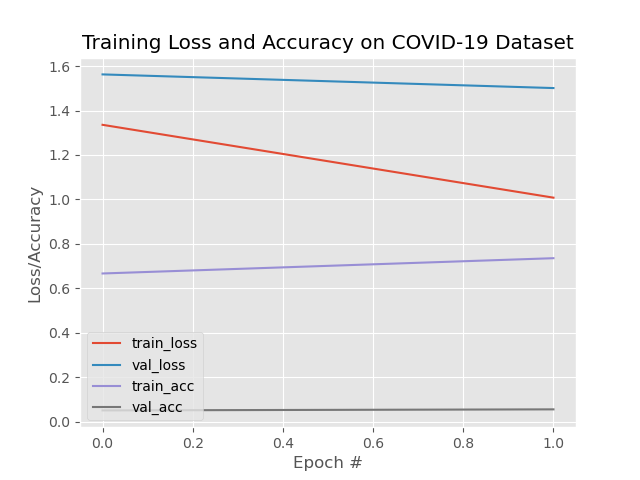
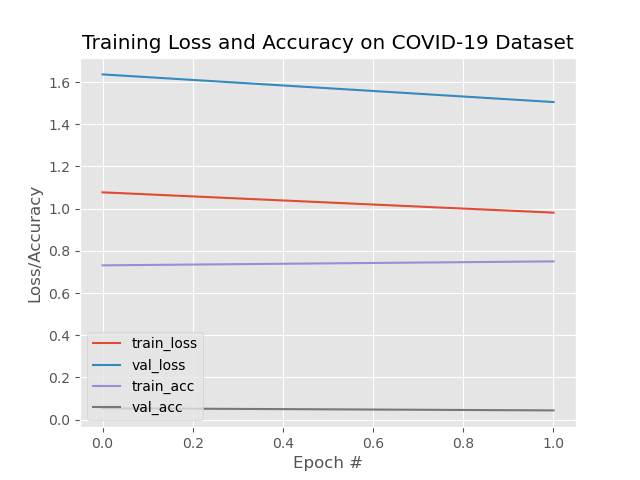
Mostly full functional, with time logging and evaluation model selection pending.

diff --git a/src/evaluator.py b/src/evaluator.py
@@ -12,8 +12,10 @@ class Evaluator:
         self.valid_X = valid_X
         self.valid_Y = valid_Y
         self.epochs = epochs
+        self.model = None
     
-    def _train(self, model, model_dest):
+    def train(self, model, model_dest):
+        self.model = model
         # Saving parameters of each epoch
         # Todo: parametrize this or separate to function
         checkpoint_path = model_dest + "/cp-{epoch:04d}.ckpt"
@@ -42,6 +44,8 @@ class Evaluator:
                 callbacks=[cp_callback]
                 )
 
+        self._plot(H)
+
         return H
 
     def _plot(self, H):
@@ -59,23 +63,23 @@ class Evaluator:
         plt.legend(loc="lower left")
         plt.savefig('performance2.png', ppi=300)    
 
-    def run_with(self, model, model_dest, model_figures_dest):
-        
-        H = self._train(model, model_dest)
-
-        self._plot(H)
+    def eval_with(self, model_dest, model_figures_dest, model_name = '/cp-0001.ckpt'):
         
         # according to the performance curves choose the best parameters
         #! ls checkpoint_dir
         # latest = tf.train.latest_checkpoint(checkpoint_dir)
-        # Todo: Parametrize model selection for evaluation
-        model.load_weights(model_dest + '/cp-0001.ckpt')
+        # TODO: Parametrize model selection for evaluation
+        if self.model is None:
+            raise ValueError("Model has not been initialized. Train the model first.")
+        
+        # TODO: Use os.path.join() here.
+        self.model.load_weights(model_dest + model_name)
 
         # Using validation datasets to predict
         print("[INFO] evaluating network...")
         # predval = model.predict(valid_X)
         # for reccall
-        predval = model.predict(self.valid_X)
+        predval = self.model.predict(self.valid_X)
 
         # for each image in the testing set we need to find the index of the
         # label with corresponding largest predicted probability
@@ -89,7 +93,7 @@ class Evaluator:
 
 
         # scores = model.evaluate(valid_X, valid_Y, verbose=1)
-        scores = model.evaluate(self.valid_X, self.valid_Y, verbose=1)
+        scores = self.model.evaluate(self.valid_X, self.valid_Y, verbose=1)
         print('Validation loss:', scores[0])
         print('Validation accuracy:', scores[1])
 

diff --git a/src/compare_model.py b/src/compare_model.py
@@ -6,25 +6,18 @@ from evaluator import Evaluator
 
 # test GPU and setup
 setup.init()
-
-# Overall variables
-# model_dest = setup.models[0][0]
-# model_figures_dest = setup.models[0][1]
-
-# baseKerasModel = setup.models[0][2]
 EPOCHS = setup.EPOCHS
 
 # Preprocessing
 (train_generator, test_generator, valid_X, valid_Y) = preprocessing(nih_metadata_path, nih_image_path, pneumonia_image_path, covid19_image_path, setup.labels)
 
+# model part
 
-# ## model part
-
-# Todo: len(setup.labels) - 1 because COVID-19 is not a class yet
 no_of_classes = len(setup.labels)
 
-
 evaluator = Evaluator(train_generator, test_generator, valid_X, valid_Y, EPOCHS)
+
+print("CompareModel training starting...")
 
 for index, base_model in enumerate(setup.models):
     
@@ -32,10 +25,19 @@ for index, base_model in enumerate(setup.models):
     model_figures_dest = base_model[1]
     base_keras_model = base_model[2]
     
-    if index == 1:
-        break
-
     model = mb.construct(base_keras_model, no_of_classes)
-    evaluator.run_with(model, model_dest, model_figures_dest)
+    evaluator.train(model, model_dest)
 
-print("CompareModel completed.")
+print("CompareModel training completed.")
+
+print("CompareModel evaluation starting...")
+
+# TODO: Make a list of all the optimum models and iterate over that too.
+for index, base_model in enumerate(setup.models):
+    
+    model_dest = base_model[0]
+    model_figures_dest = base_model[1]
+    
+    evaluator.eval_with(model_dest, model_figures_dest)
+
+print("CompareModel evaluating completed.")

diff --git a/src/preprocessing.py b/src/preprocessing.py
@@ -27,11 +27,6 @@ def generate_training_and_testing_set(nih_metadata_path, nih_image_path, pneumon
     full_img_paths = {path.basename(x): x for x in my_glob}
     df_NIH['path'] = df_NIH['Image Index'].map(full_img_paths.get)
 
-    # keep 4 normal & single disease
-    # labels = ['Effusion', 'Atelectasis', 'Infiltration', 'Pneumonia', 'No Finding'] #'Nodule', 
-    # This brings it back to the same state as it was before, with all of the labels definied else where
-    # labels = list(filter(lambda label: label != "COVID-19", all_labels))
-
     df_NIH = df_NIH[df_NIH['Finding Labels'].isin(labels)]
 
 

diff --git a/src/setup.py b/src/setup.py
@@ -20,9 +20,8 @@ model_figures_destinations = list(map(lambda name: name+"_fig", model_destinatio
 # model is tuple = (model_dest, model_figures_dest, kerasModel)
 models = list(zip(model_destinations, model_figures_destinations, keras_models))
 
-EPOCHS = 2
+EPOCHS = 30
 
-# Todo: make it work with the NIH-metadata
 labels = ['Effusion', 'Atelectasis', 'Infiltration', 'Pneumonia', 'No Finding', 'COVID-19']
 
 def gpu_test_and_setup():
